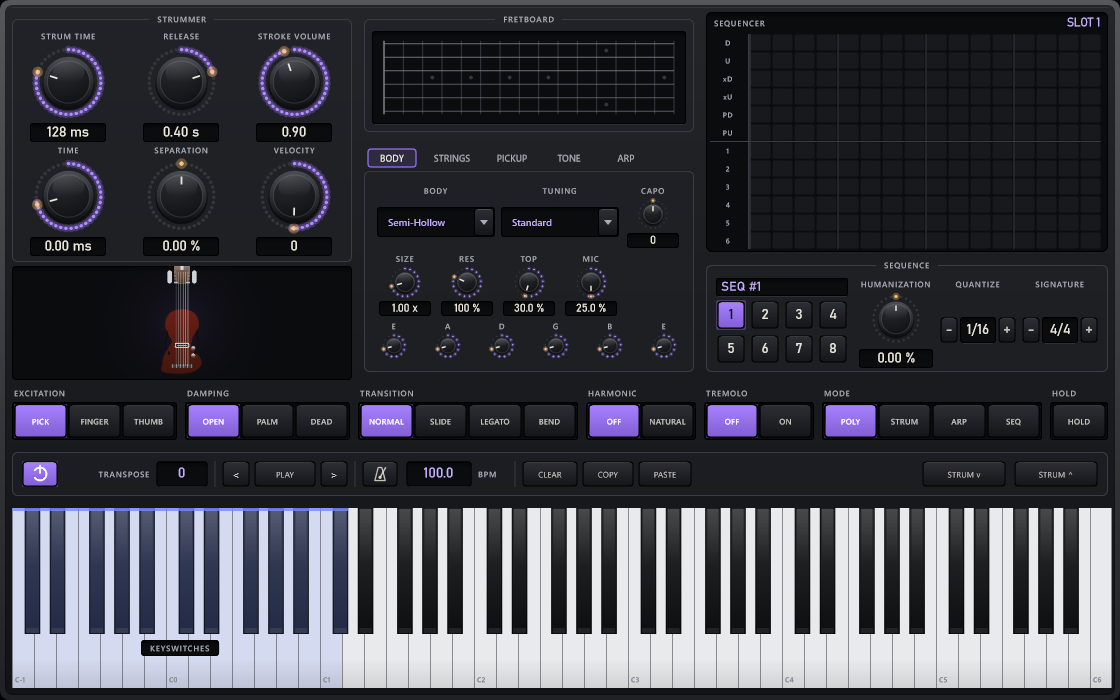
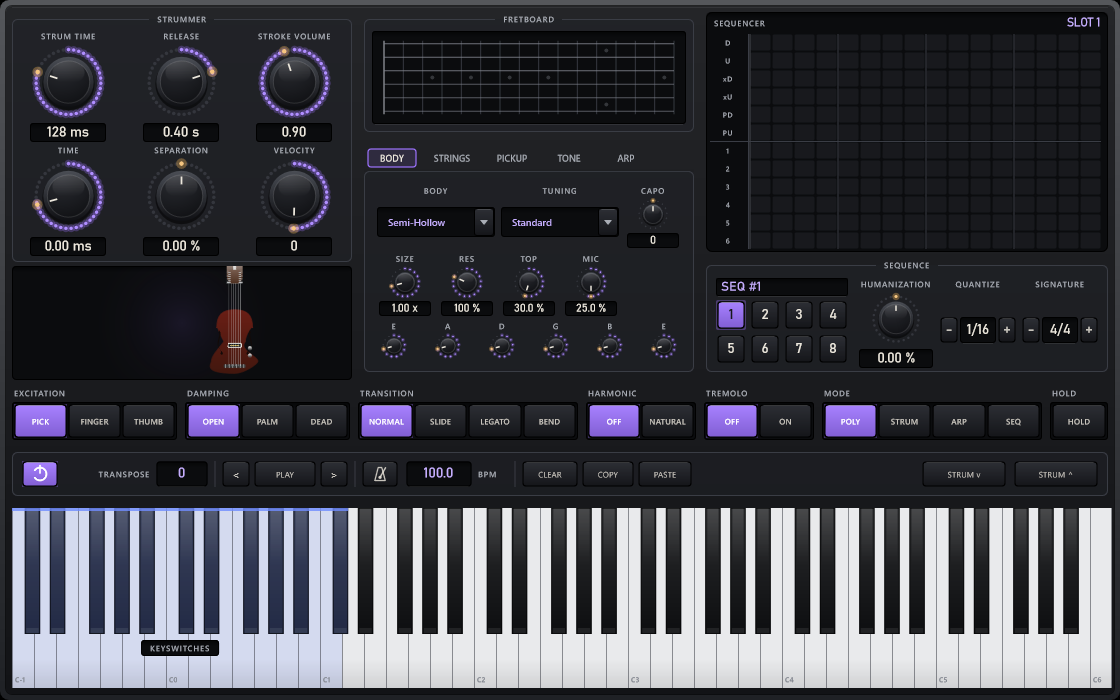
UI: guitar proportions, headstock, tuners and strings
Follow-up to the vector art. The first pass was transparent-correct but
unconvincing as instruments:

- the figure eight had the upper bout wider than the lower, which reads as a
  balloon; the lower bout is now the widest part on every body
- the headstock was a rectangle with two white boxes on it; it is now a
  flaring paddle with a tuner plate and post down each side (3 side tuners on
  the nylon, 6 in line on the rest)
- strings ran the full height at a heavy width; they now run nut to bridge,
  with the wound bass strings visibly thicker than the trebles
- the pickguard sat outside the body edge on the acoustics; it is now tucked
  against the soundhole inside the upper bout's widest point, with an edge
- the design box reserved 800 units of width for a 160-unit instrument, which
  letterboxed the guitar to a third of the panel; the box is trimmed to the
  art's real extent, so it fills the LCD well

Verified on the deployed VST3 through HostCheck: 10 checks, 0 failures, four
distinct bodies captured in Docs/screenshots/host/host_body0..3.png with
bodies_strip.png alongside. Full suite 1937 checks, 0 failures.

Changed region(s): [[0.125, 0.36, 0.25, 0.54]]

diff --git a/Source/ui/GuitarArt.cpp b/Source/ui/GuitarArt.cpp
@@ -8,7 +8,10 @@ namespace
 {
 // The art is laid out in a fixed 800 x 320 design space and mapped into the
 // target rectangle by hand, because juce::Graphics has no transform stack.
-constexpr float kDesignW = 800.0f;
+// Only the guitar is drawn, so the design box is trimmed to its real
+// extent: a wide empty box would letterbox the instrument down to a third of
+// the panel.
+constexpr float kDesignW = 400.0f + 82.0f;
 constexpr float kDesignH = 320.0f;
 
 const juce::Colour maple { static_cast<juce::uint32> (0xffd6b083) };
@@ -67,15 +70,16 @@ juce::Path neckPath (float w, float x0, float y0, float h)
 
 juce::Path headstockPath (float neckW)
 {
-    // A Fender-style paddle: narrow at the nut, widening to the tip.
+    // A Fender-style paddle: narrow at the nut, flaring to the tip, with a
+    // shallow waist so it does not read as a rectangle.
     const float hw = neckW * 0.5f;
     juce::Path p;
     p.startNewSubPath (400.0f - hw, 40.0f);
-    p.lineTo (400.0f - hw * 1.5f, 16.0f);
-    p.cubicTo (400.0f - hw * 1.9f, 2.0f, 400.0f - hw * 1.4f, 0.0f, 400.0f - hw * 0.8f, 0.0f);
-    p.lineTo (400.0f + hw * 0.8f, 0.0f);
-    p.cubicTo (400.0f + hw * 1.4f, 0.0f, 400.0f + hw * 1.9f, 2.0f, 400.0f + hw * 1.5f, 16.0f);
-    p.lineTo (400.0f + hw, 40.0f);
+    p.cubicTo (400.0f - hw * 1.15f, 30.0f, 400.0f - hw * 1.35f, 24.0f, 400.0f - hw * 1.45f, 14.0f);
+    p.cubicTo (400.0f - hw * 1.6f, 4.0f, 400.0f - hw * 1.35f, 0.0f, 400.0f - hw * 0.85f, 0.0f);
+    p.lineTo (400.0f + hw * 0.85f, 0.0f);
+    p.cubicTo (400.0f + hw * 1.35f, 0.0f, 400.0f + hw * 1.6f, 4.0f, 400.0f + hw * 1.45f, 14.0f);
+    p.cubicTo (400.0f + hw * 1.35f, 24.0f, 400.0f + hw * 1.15f, 30.0f, 400.0f + hw, 40.0f);
     p.closeSubPath();
     return p;
 }
@@ -140,20 +144,24 @@ void drawHeadstock (juce::Graphics& g, const Map& m, float neckW, juce::Colour w
 {
     juce::Path hs;
     mapped (g, m, headstockPath (neckW), hs);
-    const auto hb = m.designBounds (400.0f - neckW * 1.9f, 0.0f, neckW * 3.8f, 40.0f);
+    const auto hb = m.designBounds (400.0f - neckW * 1.7f, 0.0f, neckW * 3.4f, 40.0f);
     fillGradient (g, hs, hb, wood.brighter (0.2f), wood.darker (0.15f));
+    outline (g, hs, juce::Colour (0xff101010).withAlpha (0.5f), m.L (1.0f));
 
-    const float r = juce::jmax (2.0f, neckW * 0.3f);
+    // Tuner plates down each side, with a post on every plate.
+    const float hw = neckW * 0.5f;
+    const float plateW = neckW * 0.30f, plateH = 2.6f;
+    const float pitch = 30.0f / juce::jmax (1, tuners - 1);
     for (int i = 0; i < tuners; ++i)
     {
-        const float y = 8.0f + (float) i * (26.0f / juce::jmax (1, tuners - 1));
+        const float y = 6.0f + (float) i * pitch;
         for (int side = -1; side <= 1; side += 2)
         {
-            const auto outer = m.R (400.0f + side * neckW * 1.55f - r, y - r, r * 2.0f, r * 2.0f);
-            g.setColour (chrome);
-            g.fillEllipse (outer);
+            const float px = 400.0f + side * (hw * 1.30f) - plateW * 0.5f;
+            g.setColour (juce::Colour (chrome).withAlpha (0.85f));
+            g.fillRoundedRectangle (m.R (px, y, plateW, plateH), m.L (0.8f));
             g.setColour (juce::Colour (0xff8b8f93));
-            g.fillEllipse (outer.reduced (r * 0.4f));
+            g.fillEllipse (m.R (400.0f + side * (hw * 1.30f) - 1.3f, y + plateH * 0.5f - 1.3f, 2.6f, 2.6f));
         }
     }
 }
@@ -211,17 +219,17 @@ void drawKnobs (juce::Graphics& g, const Map& m, float x0, float y0, float dx, f
 
 void drawStrings (juce::Graphics& g, const Map& m, float neckW, float nutY, float bridgeY, int count)
 {
-    for (int s = 0; s < count; ++s)
+    for (int i = 0; i < count; ++i)
     {
-        const float t = (float) s / (float) (count - 1);
-        const float x = 400.0f + (t - 0.5f) * neckW * 1.5f;
-        const float lw = juce::jmax (0.8f, neckW * 0.055f * (0.6f + t));
-        g.setColour (juce::Colour (0xffc9ccd0).withAlpha (0.85f));
+        const float t = (float) i / (float) (count - 1);
+        const float x = 400.0f + (t - 0.5f) * neckW * 1.45f;
+        // Wound strings at the bass end are visibly thicker than the trebles.
+        const float lw = neckW * (0.035f + t * 0.030f);
+        g.setColour (juce::Colour (0xffd8dce0).withAlpha (0.75f));
         juce::Path line;
         line.startNewSubPath (m.P (x, nutY));
-        line.lineTo (m.P (x, 6.0f));
         line.lineTo (m.P (x, bridgeY));
-        g.strokePath (line, juce::PathStrokeType (m.L (lw), juce::PathStrokeType::curved, juce::PathStrokeType::rounded));
+        g.strokePath (line, juce::PathStrokeType (m.L (lw)));
     }
 }
 
@@ -271,25 +279,28 @@ void GuitarArt::paint (juce::Graphics& g, const juce::Rectangle<float>& area, Bo
     const float bridgePad = 24.0f;   // vertical gap kept clear between pickguard and bridge
 
     // --- body ---------------------------------------------------------------
-    // Figure eight: upper bout, waist, lower bout, mirrored about x = 400.
-    const float upper  = nylon ? 44.0f : 50.0f;
-    const float waist  = nylon ? 24.0f : solid ? 34.0f : 28.0f;
-    const float lower  = nylon ? 56.0f : solid ? 52.0f : semi ? 58.0f : 62.0f;
-    const float corner = (botY - waistY) * 0.35f;
+    // Figure eight. upper < lower so the lower bout is the widest part, which
+    // is what makes the shape read as a guitar rather than a balloon.
+    const float upper  = nylon ? 46.0f : solid ? 58.0f : 54.0f;
+    const float waist  = nylon ? 30.0f : solid ? 34.0f : 32.0f;
+    const float lower  = nylon ? 66.0f : solid ? 62.0f : semi ? 70.0f : 72.0f;
+    const float corner = (botY - waistY) * 0.30f;
 
     const float topR = 400.0f - upper, waistR = 400.0f - waist, botR = 400.0f - lower;
     const float topL = 400.0f + upper, waistL = 400.0f + waist, botL = 400.0f + lower;
 
     juce::Path design;
     design.startNewSubPath (400.0f, bodyTopY);
-    design.cubicTo (topR + upper * 0.45f, bodyTopY, topR, bodyTopY + upper * 0.2f, topR, bodyTopY + upper);
-    design.cubicTo (topR, waistY - (waistY - bodyTopY) * 0.45f, waistR + (topR - waistR) * 0.5f, waistY - 18.0f, waistR, waistY);
-    design.cubicTo (waistR + (botR - waistR) * 0.4f, waistY + 22.0f, botR, waistY + 40.0f, botR, botY - corner);
-    design.cubicTo (botR, botY - corner * 0.35f, botR - corner * 0.8f, botY, 400.0f, botY);
-    design.cubicTo (400.0f + corner * 0.8f, botY, botL, botY - corner * 0.35f, botL, botY - corner);
-    design.cubicTo (botL, waistY + 40.0f, waistL - (botL - waistL) * 0.4f, waistY + 22.0f, waistL, waistY);
-    design.cubicTo (waistL, waistY - 18.0f, topL, waistY - (waistY - bodyTopY) * 0.45f, topL, bodyTopY + upper);
-    design.cubicTo (topL, bodyTopY + upper * 0.2f, topL - upper * 0.45f, bodyTopY, 400.0f, bodyTopY);
+    // upper bout: shoulders out to topR, then curve in to the waist
+    design.cubicTo (topR + upper * 0.30f, bodyTopY, topR, bodyTopY + upper * 0.30f, topR, bodyTopY + upper);
+    design.cubicTo (topR, waistY - (waistY - bodyTopY) * 0.55f, waistR + (topR - waistR) * 0.55f, waistY - 20.0f, waistR, waistY);
+    // lower bout: swell out to botR, round the bottom
+    design.cubicTo (waistR + (botR - waistR) * 0.55f, waistY + 26.0f, botR, waistY + 44.0f, botR, waistY + (botY - waistY) * 0.62f);
+    design.cubicTo (botR, botY - corner, botR - corner, botY, 400.0f, botY);
+    design.cubicTo (400.0f + corner, botY, botL, botY - corner, botL, waistY + (botY - waistY) * 0.62f);
+    design.cubicTo (botL, waistY + 44.0f, waistL - (botL - waistL) * 0.55f, waistY + 26.0f, waistL, waistY);
+    design.cubicTo (waistL, waistY - 20.0f, topL, waistY - (waistY - bodyTopY) * 0.55f, topL, bodyTopY + upper);
+    design.cubicTo (topL, bodyTopY + upper * 0.30f, topL - upper * 0.30f, bodyTopY, 400.0f, bodyTopY);
     design.closeSubPath();
 
     juce::Path p;
@@ -315,13 +326,17 @@ void GuitarArt::paint (juce::Graphics& g, const juce::Rectangle<float>& area, Bo
         g.setColour (nylon ? mapleDark : rosewood);
         g.drawEllipse (m.R (400.0f - holeR * 1.45f, hy - holeR * 1.45f, holeR * 2.9f, holeR * 2.9f), m.L (3.0f));
 
-        // Pickguard hugs the bass side of the sound hole, inside the upper bout's
-        // left edge at its widest point (topR), so it never spills past the body.
-        const float pgR = 400.0f - holeR - 3.0f;
-        const float pgW = juce::jmax (10.0f, pgR - topR + 4.0f);
-        const float pgH = (botY - bridgePad - hy - holeR) * 0.9f;
-        g.setColour (pickguardW.withAlpha (0.9f));
-        g.fillRoundedRectangle (m.R (pgR - pgW, hy + holeR * 0.5f, pgW, pgH), m.L (pgW * 0.45f));
+        // Pickguard wraps the bass side of the soundhole, its outer edge kept
+        // inside the widest point of the upper bout so it cannot spill.
+        const float pgR = 400.0f - holeR - 4.0f;
+        const float pgW = juce::jmax (14.0f, pgR - topR + 6.0f);
+        const float pgH = (botY - bridgePad - hy) * 0.92f;
+        g.setColour (pickguardW.withAlpha (0.88f));
+        g.fillRoundedRectangle (m.R (pgR - pgW, hy + holeR * 0.35f, pgW, pgH), m.L (pgW * 0.5f));
+        juce::Path pgEdge;
+        pgEdge.addRoundedRectangle (m.R (pgR - pgW, hy + holeR * 0.35f, pgW, pgH), m.L (pgW * 0.5f));
+        outline (g, pgEdge, juce::Colour (0xff000000).withAlpha (0.22f), m.L (0.8f));
+
     }
     else if (solid)
     {
